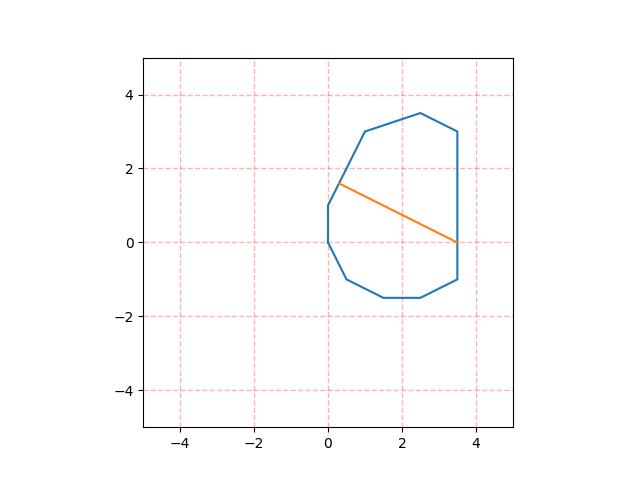
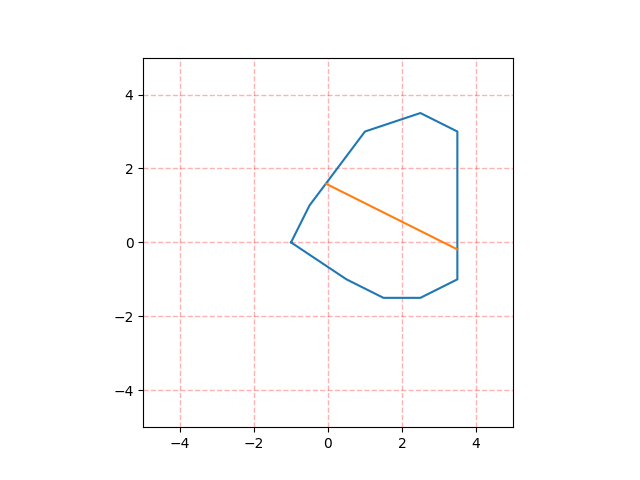
feat: rm tolerance & rm redundant translating operation

Changed region(s): [[0.4688, 0.2812, 0.7188, 0.5312], [0.4375, 0.4688, 0.5312, 0.5625], [0.5312, 0.5625, 0.5625, 0.5938]]

diff --git a/divide_polygon.py b/divide_polygon.py
@@ -2,7 +2,7 @@
 Author       : zhangxianbing
 Date         : 2021-01-11 09:01:15
 LastEditors  : zhangxianbing
-LastEditTime : 2021-01-12 09:54:18
+LastEditTime : 2021-01-12 12:46:17
 Description  : Divide polygon
 """
 
@@ -134,13 +134,12 @@ def _sep_trapeziod(left: _Segment, right: _Segment, des_area: float) -> float:
     return (left[0].x + lmd * right[0].x) / (1 + lmd)
 
 
-def _divide_polygon(p: _Polygon, n: int, tolerance=1e-12) -> List[_Segment]:
+def _divide_polygon(p: _Polygon, n: int) -> List[_Segment]:
     """Divede polygon with lines parallel with its fisrt edge.
 
     Args:
-        p (_Polygon): convex polygon counterclockwise, with the first edge(p[0]p[-1]) on the y axis.
+        p (_Polygon): convex polygon counterclockwise, with the first edge(p[0]p[-1]) parallel with y axis.
         n (int): number of parts to divide polygon into.
-        tolerance ([type], optional): tolerance, expressed as polygon area percentage. Defaults to 1e-12.
 
     Returns:
         List[_Segment]: dividing segments
@@ -148,7 +147,6 @@ def _divide_polygon(p: _Polygon, n: int, tolerance=1e-12) -> List[_Segment]:
     res = []
     segs = _dividing_polygon_segs(p)
     area = _polygon_area(p)
-    tol_area = area * tolerance
     des_area = area / n
     cur_area = 0.0
     left_seg = (p[0], p[-1])
@@ -159,12 +157,12 @@ def _divide_polygon(p: _Polygon, n: int, tolerance=1e-12) -> List[_Segment]:
         trap_area = _trapezoid_area(left_seg, right_seg)
         delta_area = des_area - (trap_area + cur_area)
 
-        if delta_area > tol_area:
+        if delta_area > 0.0:
             left_seg = right_seg
             cur_area += trap_area
             i += 1
 
-        elif delta_area < tol_area:
+        elif delta_area < 0.0:
             x = _sep_trapeziod(left_seg, right_seg, des_area - cur_area)
             bott = _cross_point(left_seg[0], right_seg[0], x)
             top = _cross_point(left_seg[1], right_seg[1], x)
@@ -172,25 +170,13 @@ def _divide_polygon(p: _Polygon, n: int, tolerance=1e-12) -> List[_Segment]:
             res.append(left_seg)
             cur_area = 0.0
 
-        elif abs(delta_area) <= tol_area:
+        else:
             left_seg = right_seg
             res.append(left_seg)
             cur_area = 0.0
             i += 1
 
     return res
-
-
-def _translate_coord(origin: List[Point], trans: Point) -> None:
-    """Translate coordinate system by `trans`.
-
-    Args:
-        origin (List[Point]): coordinates to be translated.
-        trans (Point): the translation to translate
-    """
-    for i in range(len(origin)):
-        origin[i].x += trans.x
-        origin[i].y += trans.y
 
 
 def _rotate_coord(origin: List[Point], theta: float) -> None:
@@ -207,17 +193,14 @@ def _rotate_coord(origin: List[Point], theta: float) -> None:
         origin[i].y = -sin_theta * px + cos_theta * py
 
 
-def divide_polygon(
-    poly: _Polygon, n: int, idx: int, tolerance=1e-12, in_place=False
-) -> List[_Segment]:
+def divide_polygon(poly: _Polygon, n: int, idx: int, in_place=False) -> List[_Segment]:
     """Divede polygon with lines parallel with its idx-th edge.
 
     Args:
         poly (_Polygon): counterclockwise polygon with edge p[0]p[-1] on y axis.
         n (int): number of parts to divide polygon into.
         idx (int): index of edge to be paralleled with.
-        tolerance ([type], optional): tolerance, expressed as polygon area percentage. Defaults to 1e-12.
-        in_place (bool, optional): [description]. Defaults to False.
+        in_place (bool, optional): whether to operate in place (If true, input data would be changed). Defaults to False.
 
     Returns:
         List[_Segment]: dividing segments
@@ -226,23 +209,17 @@ def divide_polygon(
         p = copy.deepcopy(poly)
     else:
         p = poly
-    # tanslate current coordinate system by by -p[idx]
-    trans = Point(-p[idx].x, -p[idx].y)
-    _translate_coord(p, trans)
-    # rotate current coordinate system by theta
-    # angle from sepc line to y axis
+    # rotate current coordinate system by theta(angle from sepc line to y axis)
     theta = atan2(p[idx - 1].y - p[idx].y, p[idx - 1].x - p[idx].x) - pi / 2.0
     _rotate_coord(p, theta)
     # change p[idx] to p[0]
     p = p[idx:] + p[:idx]
 
-    lines = _divide_polygon(p, n, tolerance)
+    lines = _divide_polygon(p, n)
 
     # convert to origin coord
-    trans = Point(-trans.x, -trans.y)
     for i in range(len(lines)):
         _rotate_coord(lines[i], -theta)
-        _translate_coord(lines[i], trans)
 
     return lines
 
@@ -270,8 +247,10 @@ def _draw_polygon(p: _Polygon, lines=None, title="") -> None:
 
 
 if __name__ == "__main__":
+    import os
+
     p1 = [
-        Point(0, 0),
+        Point(-1, 0),
         Point(0.5, -1),
         Point(1.5, -1.5),
         Point(2.5, -1.5),
@@ -279,7 +258,7 @@ if __name__ == "__main__":
         Point(3.5, 3),
         Point(2.5, 3.5),
         Point(1, 3),
-        Point(0, 1),
+        Point(-0.5, 1),
     ]
     # print(_sep_polygon_lines(p1))
 
@@ -299,4 +278,4 @@ if __name__ == "__main__":
     for i in range(2, 6):
         lines = divide_polygon(p1, i, 6)
         print(lines)
-        _draw_polygon(p1, lines, f"divide_{i}.png")
+        _draw_polygon(p1, lines, os.path.join("images", f"divide_{i}.png"))

diff --git a/README.md b/README.md
@@ -3,17 +3,14 @@
 A python implement for dividing polygon algorithm.
 
 ```py
-def divide_polygon(
-    poly: _Polygon, n: int, idx: int, tolerance=1e-12, in_place=False
-) -> List[_Segment]:
+def divide_polygon(poly: _Polygon, n: int, idx: int, in_place=False) -> List[_Segment]:
     """Divede polygon with lines parallel with its idx-th edge.
 
     Args:
         poly (_Polygon): counterclockwise polygon with edge p[0]p[-1] on y axis.
         n (int): number of parts to divide polygon into.
         idx (int): index of edge to be paralleled with.
-        tolerance ([type], optional): tolerance, expressed as polygon area percentage. Defaults to 1e-12.
-        in_place (bool, optional): [description]. Defaults to False.
+        in_place (bool, optional): whether to operate in place (If true, input data would be changed). Defaults to False.
 
     Returns:
         List[_Segment]: dividing segments
